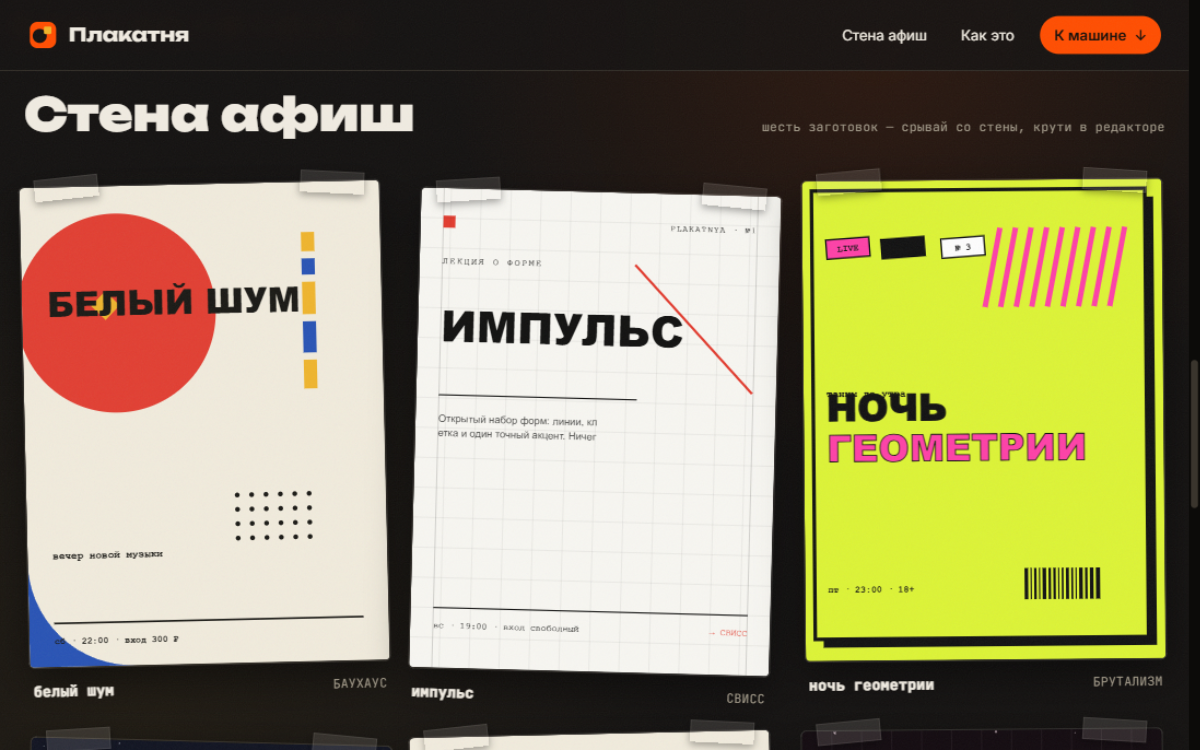
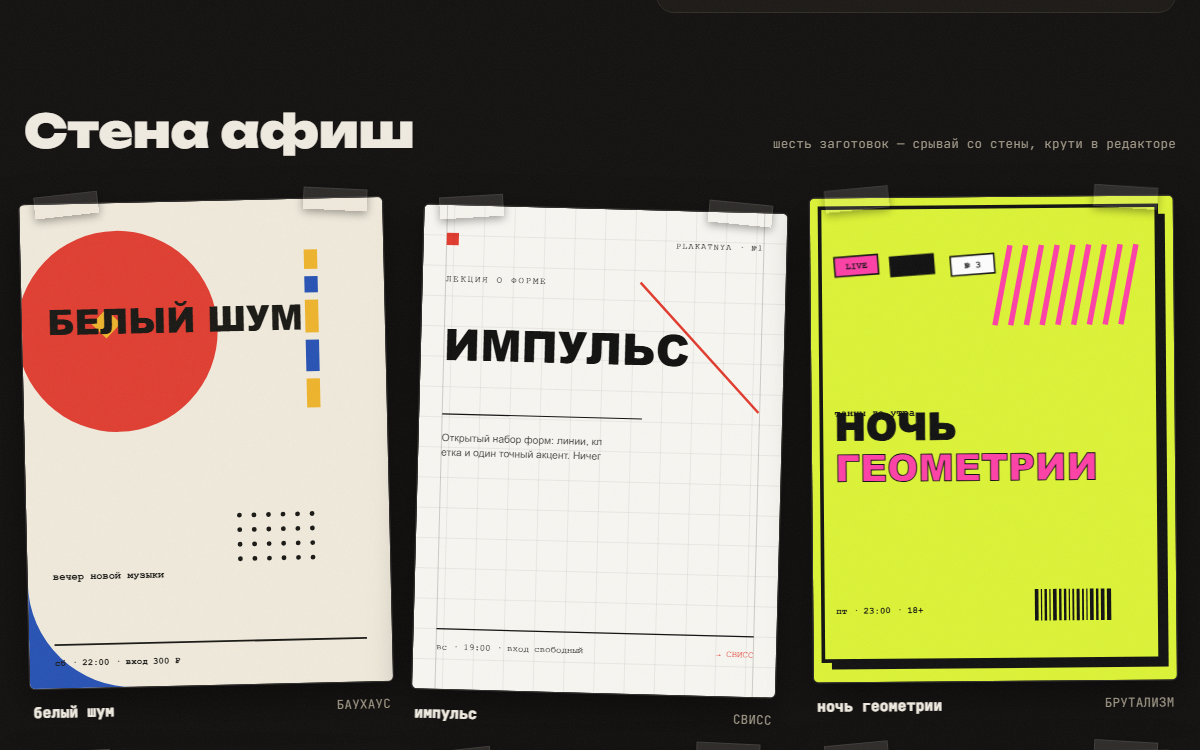
Плакатня: убраны оставшиеся бегущие ленты (звёзды-разделители между секциями); кадры стены афиш и финала пересняты

diff --git a/projects/plakat/style.css b/projects/plakat/style.css
@@ -131,14 +131,6 @@ button { font: inherit; color: inherit; background: none; border: 0; cursor: poi
 .top-links i { font-style: normal; margin-left: 4px; }
 
 /* ============================================================
-   БЕГУЩИЕ ЗВЁЗДЫ (разделители)
-   ============================================================ */
-
-@keyframes ticker {
-  to { transform: translateX(-50%); }
-}
-
-/* ============================================================
    ВСТУПЛЕНИЕ
    ============================================================ */
 
@@ -498,26 +490,6 @@ button { font: inherit; color: inherit; background: none; border: 0; cursor: poi
 .dl-btn:disabled { opacity: 0.5; cursor: wait; }
 
 /* ============================================================
-   ЗВЁЗДНЫЙ РАЗДЕЛИТЕЛЬ — ползёт в другую сторону
-   ============================================================ */
-
-.stars {
-  overflow: hidden;
-  padding: 26px 0;
-  user-select: none;
-}
-
-.stars .st-track {
-  display: flex;
-  width: max-content;
-  animation: ticker 44s linear infinite reverse;
-  color: var(--accent);
-  font-size: 20px;
-  letter-spacing: 12px;
-  white-space: nowrap;
-}
-
-/* ============================================================
    СТЕНА АФИШ (галерея пресетов)
    ============================================================ */
 
@@ -740,6 +712,5 @@ button { font: inherit; color: inherit; background: none; border: 0; cursor: poi
 
 @media (prefers-reduced-motion: reduce) {
   html { scroll-behavior: auto; }
-  .ticker-track, .stars .st-track { animation: none; }
   .hello::after { animation: none; }
 }

diff --git a/projects/plakat/index.html b/projects/plakat/index.html
@@ -132,13 +132,6 @@
       </div>
     </section>
 
-    <!-- ======= разделитель ======= -->
-    <div class="stars mono" aria-hidden="true">
-      <div class="st-track">
-        <span>✳✳✳✳✳✳✳✳✳✳✳✳</span><span>✳✳✳✳✳✳✳✳✳✳✳✳</span>
-      </div>
-    </div>
-
     <!-- ======= стена афиш ======= -->
     <section class="gallery" id="gallery">
       <div class="g-head">
@@ -147,12 +140,6 @@
       </div>
       <div class="g-grid" id="g-grid"></div>
     </section>
-
-    <div class="stars mono" aria-hidden="true">
-      <div class="st-track">
-        <span>✳✳✳✳✳✳✳✳✳✳✳✳</span><span>✳✳✳✳✳✳✳✳✳✳✳✳</span>
-      </div>
-    </div>
 
     <!-- ======= как это работает ======= -->
     <section class="how" id="how">
